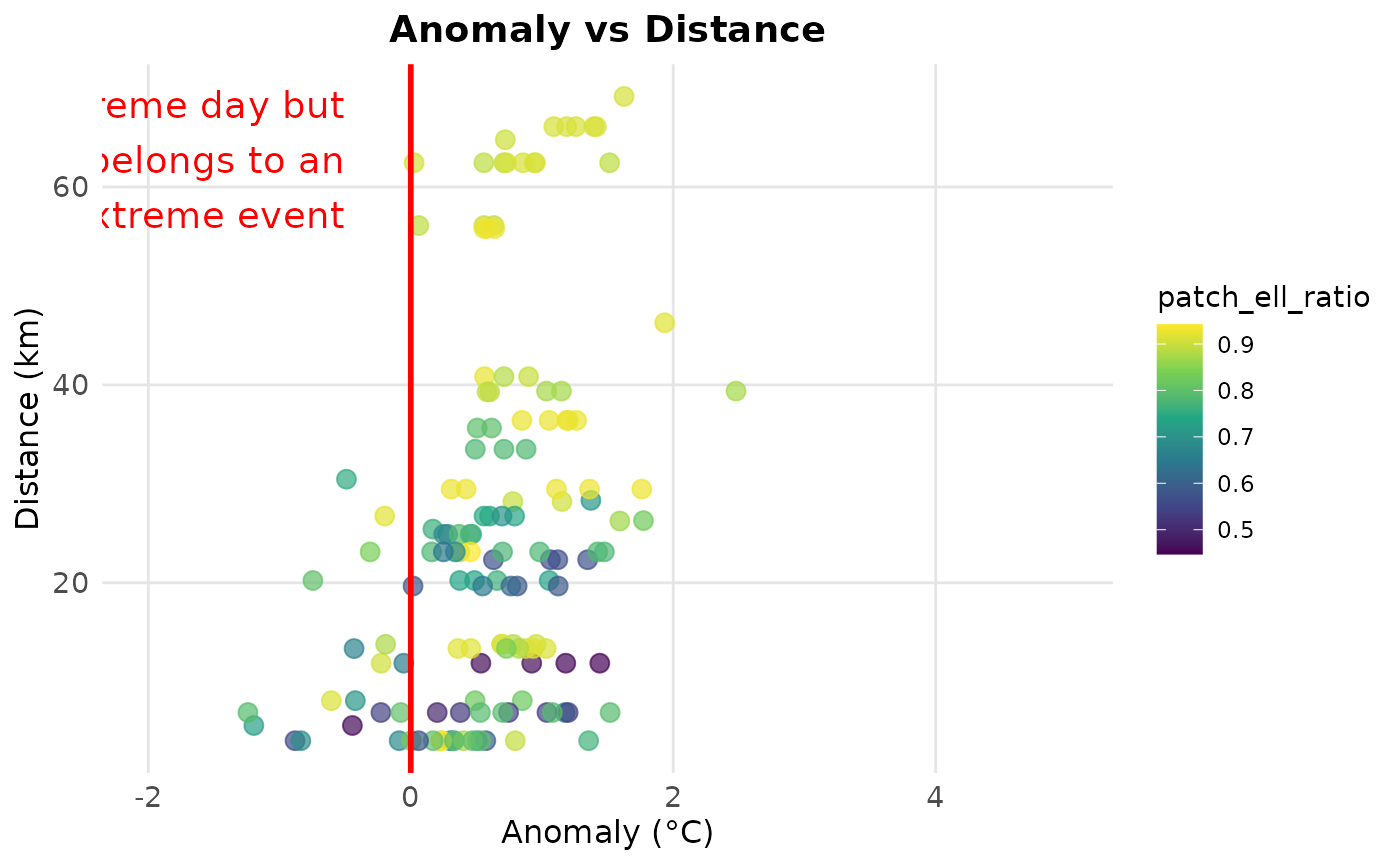
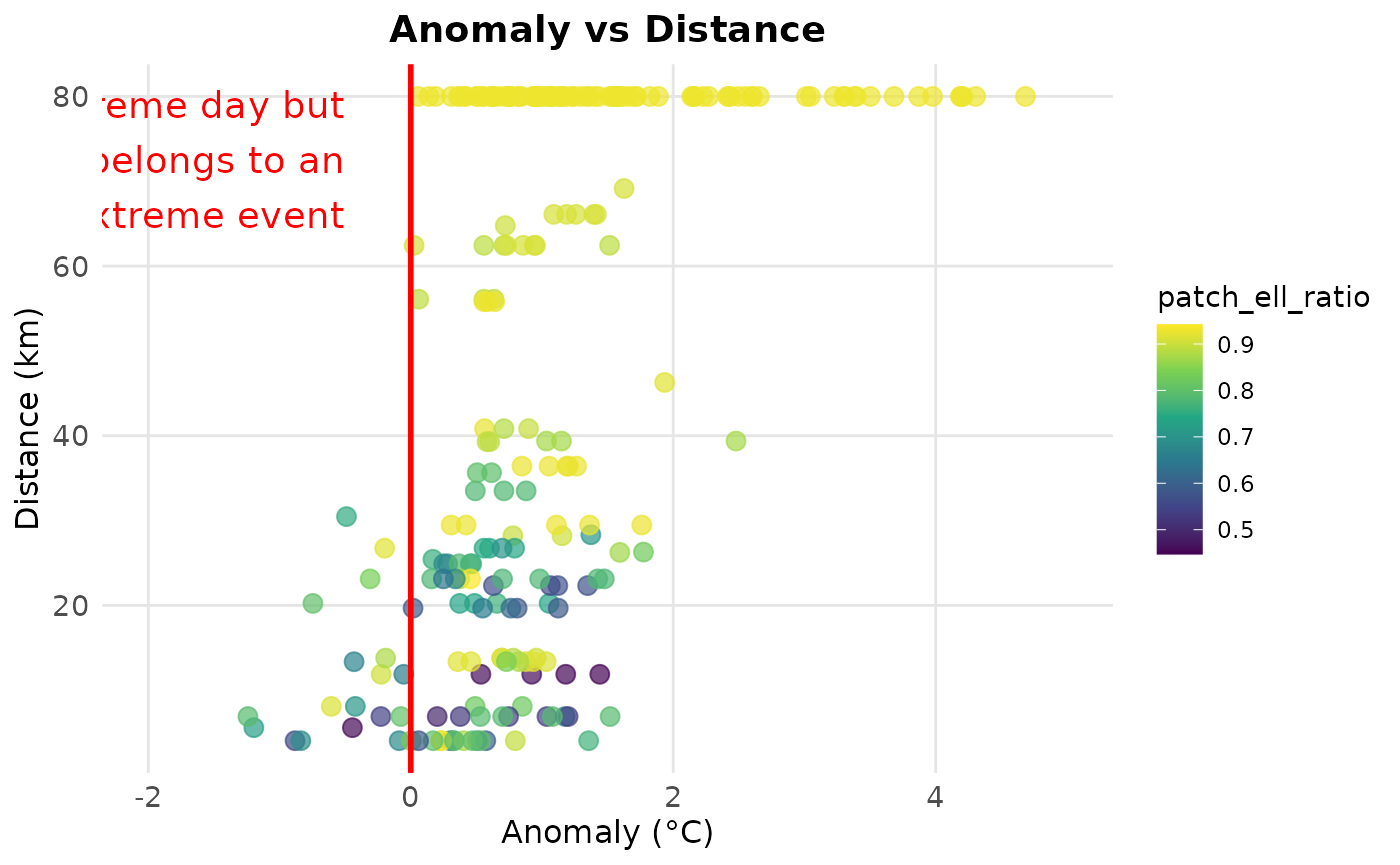
Deploying to gh-pages from @ VicoDelannoy/BioExtremeEvent@e1cfb814189e940724161ccbcbfa14475a7adcea 🚀

diff --git a/articles/k_data_merge.html b/articles/k_data_merge.html
@@ -275,8 +275,12 @@ data, the output also has continuous daily data. Therefore, many days in
 the output do not correspond to an extreme event. You can remove them as
 follows:</p>
 <div class="sourceCode" id="cb10"><pre class="downlit sourceCode r">
-<code class="sourceCode R"><span><span class="va">pixel_108</span> <span class="op">&lt;-</span> <span class="va">merged_ouputs</span><span class="op">[[</span><span class="st">"108"</span><span class="op">]</span><span class="op">]</span></span>
-<span><span class="va">pixel_108_EE</span> <span class="op">&lt;-</span> <span class="va">pixel_108</span><span class="op">[</span><span class="va">pixel_108</span><span class="op">$</span><span class="va">cleaned_value</span><span class="op">==</span><span class="fl">1</span>,<span class="op">]</span></span>
+<code class="sourceCode R"><span><span class="va">pixel_108</span> <span class="op">&lt;-</span> <span class="fu"><a href="https://rspatial.github.io/terra/reference/as.data.frame.html" class="external-link">as.data.frame</a></span><span class="op">(</span><span class="va">merged_ouputs</span><span class="op">[[</span><span class="st">"108"</span><span class="op">]</span><span class="op">]</span><span class="op">)</span></span>
+<span><span class="va">pixel_108_EE</span> <span class="op">&lt;-</span> <span class="va">pixel_108</span><span class="op">[</span><span class="va">pixel_108</span><span class="op">$</span><span class="va">cleaned_value</span> <span class="op">==</span> <span class="fl">1</span>,<span class="op">]</span></span>
+<span><span class="co">#converte message to NA :</span></span>
+<span><span class="va">pixel_108_EE</span><span class="op">$</span><span class="va">anomaly_qt</span> <span class="op">&lt;-</span> <span class="fu"><a href="https://rdrr.io/r/base/numeric.html" class="external-link">as.numeric</a></span><span class="op">(</span><span class="va">pixel_108_EE</span><span class="op">$</span><span class="va">anomaly_qt</span><span class="op">)</span></span>
+<span><span class="va">pixel_108_EE</span><span class="op">$</span><span class="va">distance</span> <span class="op">&lt;-</span> <span class="fu"><a href="https://rdrr.io/r/base/numeric.html" class="external-link">as.numeric</a></span><span class="op">(</span><span class="fu"><a href="https://rdrr.io/r/base/ifelse.html" class="external-link">ifelse</a></span><span class="op">(</span><span class="va">pixel_108_EE</span><span class="op">$</span><span class="va">distance</span><span class="op">==</span><span class="st">"outside of the raster"</span>,<span class="fl">80000</span>,<span class="va">pixel_108_EE</span><span class="op">$</span><span class="va">distance</span><span class="op">)</span><span class="op">)</span> <span class="co">#when there where no issues inside the raster, the distance to escape is set to 80 km</span></span>
+<span><span class="va">pixel_108_EE</span><span class="op">$</span><span class="va">patch_ell_ratio</span> <span class="op">&lt;-</span> <span class="fu"><a href="https://rdrr.io/r/base/numeric.html" class="external-link">as.numeric</a></span><span class="op">(</span><span class="va">pixel_108_EE</span><span class="op">$</span><span class="va">patch_ell_ratio</span><span class="op">)</span></span>
 <span></span>
 <span><span class="kw"><a href="https://rdrr.io/r/base/library.html" class="external-link">library</a></span><span class="op">(</span><span class="va"><a href="https://ggplot2.tidyverse.org" class="external-link">ggplot2</a></span><span class="op">)</span></span>
 <span></span>
@@ -311,9 +315,6 @@ follows:</p>
 <span>    panel.grid.minor <span class="op">=</span> <span class="fu"><a href="https://ggplot2.tidyverse.org/reference/element.html" class="external-link">element_blank</a></span><span class="op">(</span><span class="op">)</span>,</span>
 <span>    legend.position <span class="op">=</span> <span class="st">"right"</span></span>
 <span>  <span class="op">)</span></span></code></pre></div>
-<pre><code><span><span class="co">## Warning in FUN(X[[i]], ...): NAs introduced by coercion</span></span></code></pre>
-<pre><code><span><span class="co">## Warning: Removed 97 rows containing missing values or values outside the scale range</span></span>
-<span><span class="co">## (`geom_point()`).</span></span></code></pre>
 <p><img src="k_data_merge_files/figure-html/unnamed-chunk-4-1.png" class="r-plt" alt="" width="700"></p>
 </div>
   </div>